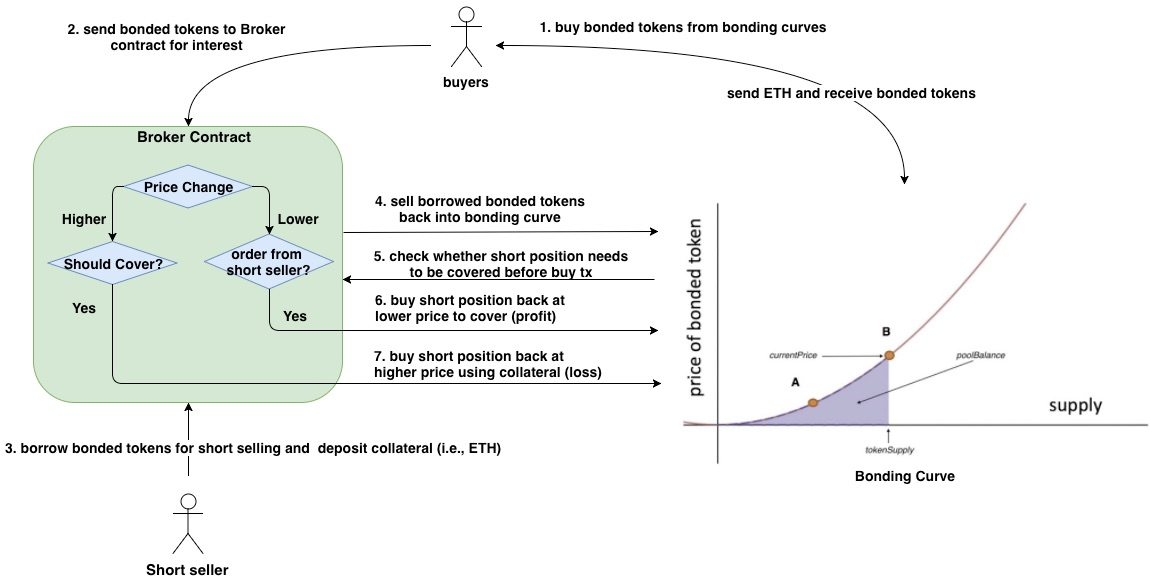
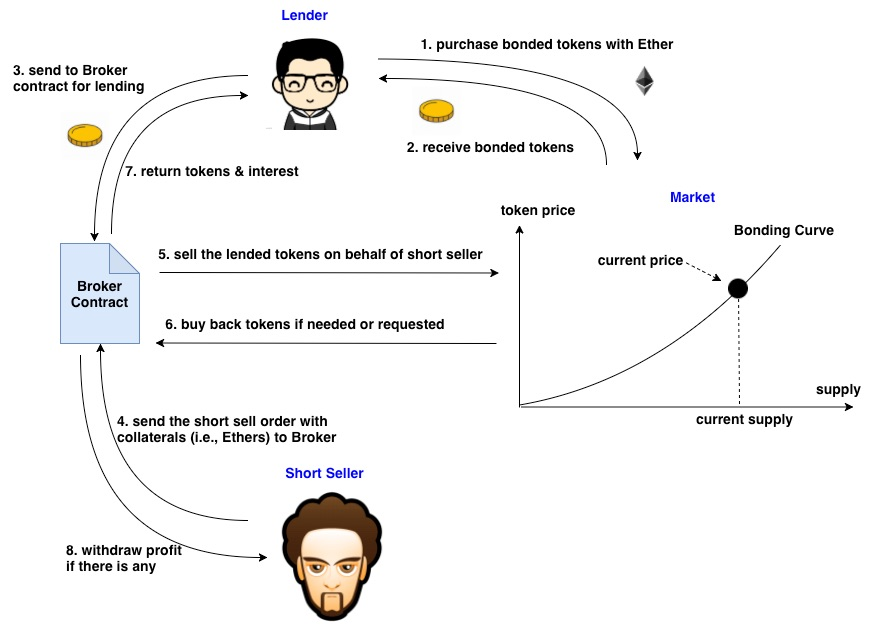
update short selling

diff --git a/2-signaling-mechanism/2-shot-sell-bc/README.md b/2-signaling-mechanism/2-shot-sell-bc/README.md
@@ -8,26 +8,27 @@ name: investigate short selling in Bonding Curves.
 type: research
 status: initial draft
 editor: Fang Gong <fang@oceanprotocol.com>
-date: 02/11/2019
+date: 02/19/2019
 ```
 
 
 ## 1. Introduction
-With the regular bonding curve settings, users can sell bonded tokens and push down the bonded token price, which generates a *negative signal* for the asset asscoiated with the bonded token. However, this approach requires users to purchase bonded tokens before they can sell. 
+With the regular bonding curve settings, users can sell bonded tokens and push down the bonded token price, which serves as *negative signal* for the asset asscoiated with the bonded token. However, this approach requires users to purchase bonded tokens before they can sell. 
 
-In this research, we investigate another way to generate negative singles: **short selling**, which has long been a popular trading technique to depreciate the asset value for decades. We will study it in the framework of bonding curves, identify the critical challenges and explore the proper approach to implement it.
+In this research, we investigate an alternative approach to generate negative singles: **short selling**, which has long been a popular trading technique to depreciate the asset value for decades. We will study it in the framework of bonding curves, identify the critical challenges and explore the proper approach to implement it.
 
 ## 2. Background
 
-In existing stock market, **Short selling** involves the sale of stock that the seller does not own, or shares that the seller has taken on loan from a broker. In this way, the seller expects to make a profit by buying the same amount of stock shares (or "short position") back at a "lower" price to pay off the loan to the broker. 
+In the existing stock market, **Short selling** involves the sale of stock that the seller does not own, or shares that the seller has taken on loan from a broker. In other words, short sellers bet on the prediction that stock price will move downward in the future.
 
-Traders short sell stocks because they believe the stock prices must become lower in the future. If the stock price jumps up, short sellers need to buy back the short position at a higher price and lose money, which is called "*Short Squeeze*". Clearly, a large amount of **short selling** serves as a negative signal to the stocks in the market.
+* If stock price moves downward in favor of their interests, short sellers can buy stock shares back (or "covering short position") at a "lower" price to pay off the loan and porket the profits. 
+* Otherwise, in the case of "*Short Squeeze*" (i.e., stock price moves up), they need to buy at a "higher" price to close their short positions and lose their money.
 
-The process of short selling is illustrated as follows, which consists of three parties:
+Short selling involves some parties as illustrated as below:
 
-* **Stock holder**: buy stock shares from the open markets and keep stock holdings in their Brokers (i.e., Schwab, Vanguard, Etrade, etc.). 
-* **Broker**: borrow their clients' stock shares to short sellers for interest returns.
-* **Short seller**: borrow stock shares from Broker and promise to return the same amount of stock shares along with interests (depends on "days to cover") to their lending Brokers.
+* **Lender**: purchase stock shares from the open market and keep them in the Brokers. 
+* **Broker**: borrow custodial stock shares to short sellers for interest returns.
+* **Short seller**: borrow stock shares from Broker and promise to return them along with interest.
 * **Market**: the stock market matches buy and sell orders and executes trading of stock shares. 
 
 <img src="img/basic_shorting.jpg" width=600 />
@@ -36,43 +37,62 @@ The process of short selling is illustrated as follows, which consists of three 
 
 ### 3.1 Modules
 
-The design of short selling in bonding curves includes following modules:
+The design of short selling in bonding curves includes following components:
 
-* **Token borrower**: 
-	* buy bonded tokens from the bonding curves
-	* keep tokens in the Broker contract for potential interest returns.
-* **Broker**:
-	* borrow bonded tokens to short sellers;
-	* short sellers must deposit collateral tokens to prevent "short squeeze";
-	* automatically cover the short position by buying bonded tokens back;
-	* return the borrowed bonded tokens to borrower along with interest.
-* **Short seller**:
-	* borrow bonded tokens from the Broker contract;
-	* deposit collateral tokens in case of "short squeeze"; 
-	* sell borrowed bonded tokens at a specific price.
-* **Token Market**:
-	* bonding curve is automated market maker;
-	* it serves as the market for bonded tokens.
+* **Lender**: buy bonded tokens and keep tokens in the Broker contract for lending.
+* **Broker**: lend bonded tokens to short seller with collateral depsoit, and cover short position if needed.
+* **Short seller**: borrow bonded tokens and short sell them in the market to make a profit.
+* **Token Market**: it is the bonding curves that executes trading transactions of boned tokens.
 
 
 ### 3.2 Workflow Summary
 
-* token buyers should buy bonded tokens from bonding curves (i.e., ETH <> Bonded Tokens);
-* token buyers send the bonded tokens to Broker contract so these tokens can be borrowed for interest;
-* short sellers borrow bonded tokens from the Broker contract and sell these tokens back into bonding curve;
-* in the same time, short sellers must deposit collateral tokens (i.e., ETH) in case of short squeeze;
-	* more deposit of collateral tokens indicates short sellers can tolerate more fluctuation in token price;
-	* otherwise, short sellers are required to cover their short positions with a small price jump.
-* bonding curves need to check open short positions before any "buy" transaction to make sure each short position can be covered with associated collateral tokens in the worst case;
-* if the token price goes up, bonding curve needs to check whether collateral tokens can cover the short position if the incoming buy transaction is executed. If not, bonding curve will cover the short position before execute the incoming buy transaction. 
-* if the token price goes down, short sellers can choose to cover their short positions in the lower prices to make profits. 
-* After the short position is covered, Broker contract will deduct interests from the proceeds and send both bonded tokens and interests to the borrower;
-* short seller can withdraw profits after if there is any.
-
 <img src="img/design.jpg" width=1000 />
+
+* Step 1: purchase and lending by token lenders
+	* purchases bonded tokens from bonding curves;
+	* sends the bonded tokens to Broker contract for lending;
+* Step 2: short selling by short sellers
+	* borrow bonded tokens from the Broker contract and sell them to bonding curves for proceeds;
+	* deposit collateral tokens (i.e., ETH, OCEAN, etc.) to manage short squeeze;
+* Step 3: cover short position by Broker contract or short seller
+	* Broker contract automatically cover short position using proceeds + collateral if needed;
+	* short sellers can place an order to close short position to make a profit;
+* Step 4: distribute funds by Broker contract
+	* send interest to token lenders;
+	* allow short sellers to withdraw profits if there is any.
+
+
 
 
 ## 4. Challenges
+
+### 4.1 Design of Broker Contract
+
+The proposed structure in our design of Broker contract is following:
+
+* a gloabl hashtable can map a specific bonded token to a double linked list (DLL);
+* each DLL includes all available tokens for lending. 
+
+<img src="img/broker_design.jpg" width=1000 />
+
+The key problems & our proposed solution:
+
+* **Question 1**: match the lending and borrowing orders to fulfill the borrowing request:
+	* Broker contract will access the DLL of a specific bonded token to lend the next available tokens to short seller when receiving the borrowing request;
+	* short seller may borrow tokens from multiple lenders towards his borrowing amount.
+* **Question 2**: handle the withdrawal request from lenders when their tokens had been sold by short seller:
+	* Broker finds the next available bonded tokens to fulfill the withdrawal request from the original lenders (but lender may be not eligible for interest in this case);
+	* the loan of bonded tokens will be transferred to new lenders;
+	* if there is no new lender available, Broker forces to close the short position and return the bonded tokens to the lender.
+* **Question 3**: the calculation of interest for lending:
+	* it can depends on the duration of lending period (e.g., accumulated daily);
+	* there is a cap that is the maximum amount of accumulated interest;
+	* lender is not eligible for interest if he requests to withdraw lended tokens before the interest cap is reached. (In this case Broker contract pockets the interest and make money! :)
+
+<img src="img/interest_curve.jpg" width=450 />
+
+### 4.2 Short Squeeze Issue
 
 The key challenge is to handle "short squeeze", which guarantees the short position can be covered so that borrowed bonded tokens can be returned in case of token price increase. 
 
@@ -87,7 +107,7 @@ The key of solution:
 * assuming the new "buy" transaction is executed and token price moves up, we need to check whether the short position can be covered at the moment. 
 * If not, the short position must be closed **before** the "buy" transaction can execute.
 
-### 4.1 Single Short Seller Scenario
+### 4.2.1 Single Short Seller Scenario
 
 We can walk through the process to understand the challenge:
 
@@ -104,6 +124,8 @@ We can walk through the process to understand the challenge:
 	* short seller must deposit reserved tokens as collaterals to tolerate token price fluctuation. 
 	* current reserved token balance of short seller = proceeds + collateral
 	* however, short seller has negative balance of bonded tokens that need to be covered in the future.
+	* more deposit of collateral tokens indicates short sellers can tolerate more fluctuation in token price;
+	* otherwise, short sellers are required to cover their short positions with a small price jump.
 
 <img src="img/depsoit_collateral.jpg" width=1000 />
 
@@ -125,7 +147,7 @@ We can walk through the process to understand the challenge:
 <img src="img/cover_short_position.jpg" width=1000 />
 
 
-### 4.2 Multiple Short Seller Scenario
+### 4.2.2 Multiple Short Seller Scenario
 
 When there are many short positions exist at the same time, it is possible that closing of one short position moves token price up, therefore, causing other short positions must be closed as well. 
 
@@ -140,7 +162,7 @@ There are two factors need to be taken into the account:
 * the price after the short sell;
 * the total cost to cover the short position compared with the balance (= proceeds + collaterals) in Broker contract.
 
-#### 4.2.1 Threshold Price
+#### 4.2.2.1 Threshold Price
 
 we need first to define **"threshold price"** as: 
 
@@ -159,7 +181,7 @@ Note: if cost of **interests** is considered, the maximum budget of short seller
 
 <img src="img/many_shorts.jpg" width=1000 />
 
-#### 4.2.2 Remove Overlapping
+#### 4.2.2.2 Remove Overlapping
 
 Another issue is overlapping among different short positions as shown in the right of above image. If the first short position is covered at the `TP1`, the second short position can never be covered at the `TP2` due to overlapping.
 
@@ -170,7 +192,7 @@ Note: the cost to cover the first short position after the adjustment is **small
 <img src="img/remove_overlapping.jpg" width=500 />
 
 
-#### 4.2.3 Solution for Multiple Short Positions
+#### 4.2.2.3 Solution for Multiple Short Positions
 
 * Pre-Processing:
 	* first, all open short positions must be sorted by threshold price from low to high;
@@ -183,7 +205,7 @@ Note: the cost to cover the first short position after the adjustment is **small
 		* either all short positions need to be closed;
 		* or the "buy" transaction can be executed without need of closing short position anymore.
 
-### 4.3 Improved Solution using Batched Bonding Curve
+### 4.2.3 Improved Solution using Batched Bonding Curve
 
 It is possible the "buy" and "sell" transaction may cancel out each other so that token price remains the same in the end. Therefore, the short position remains to be open as long as possible.
 
